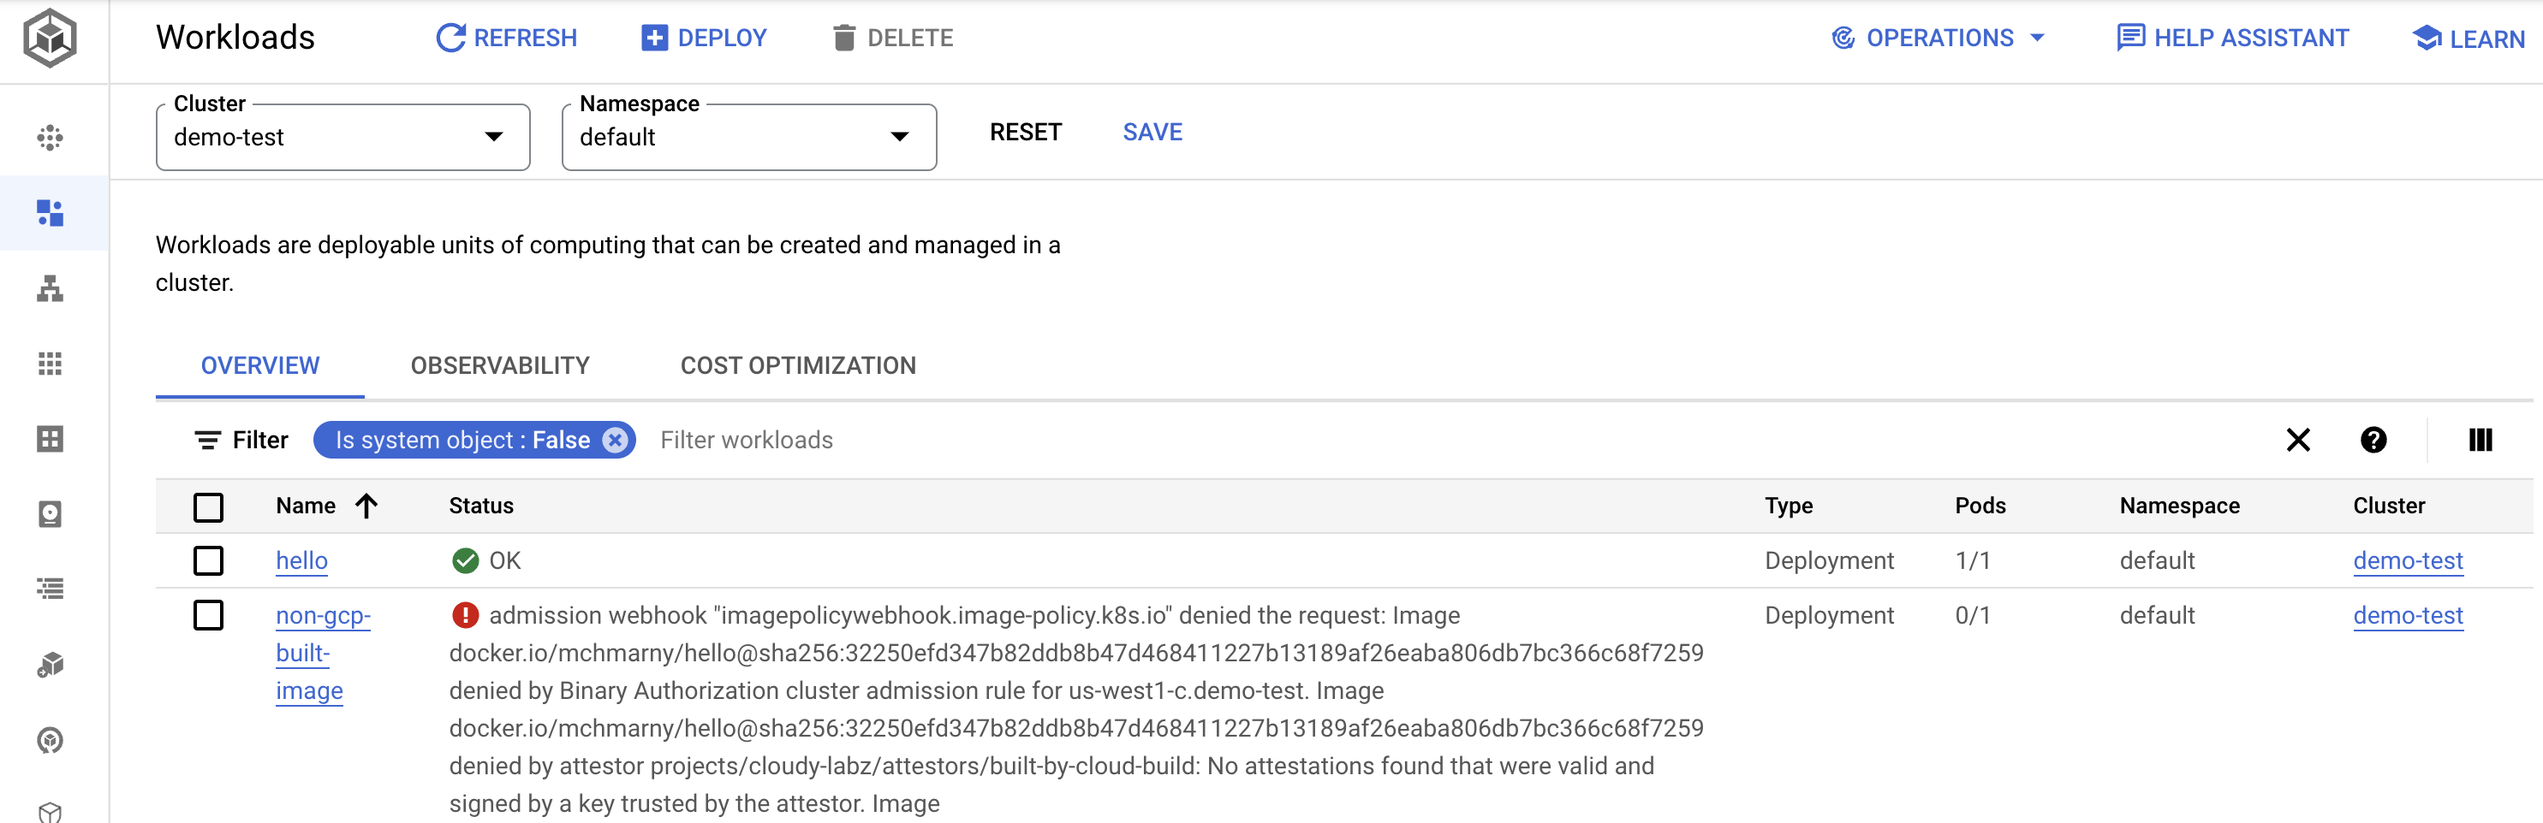
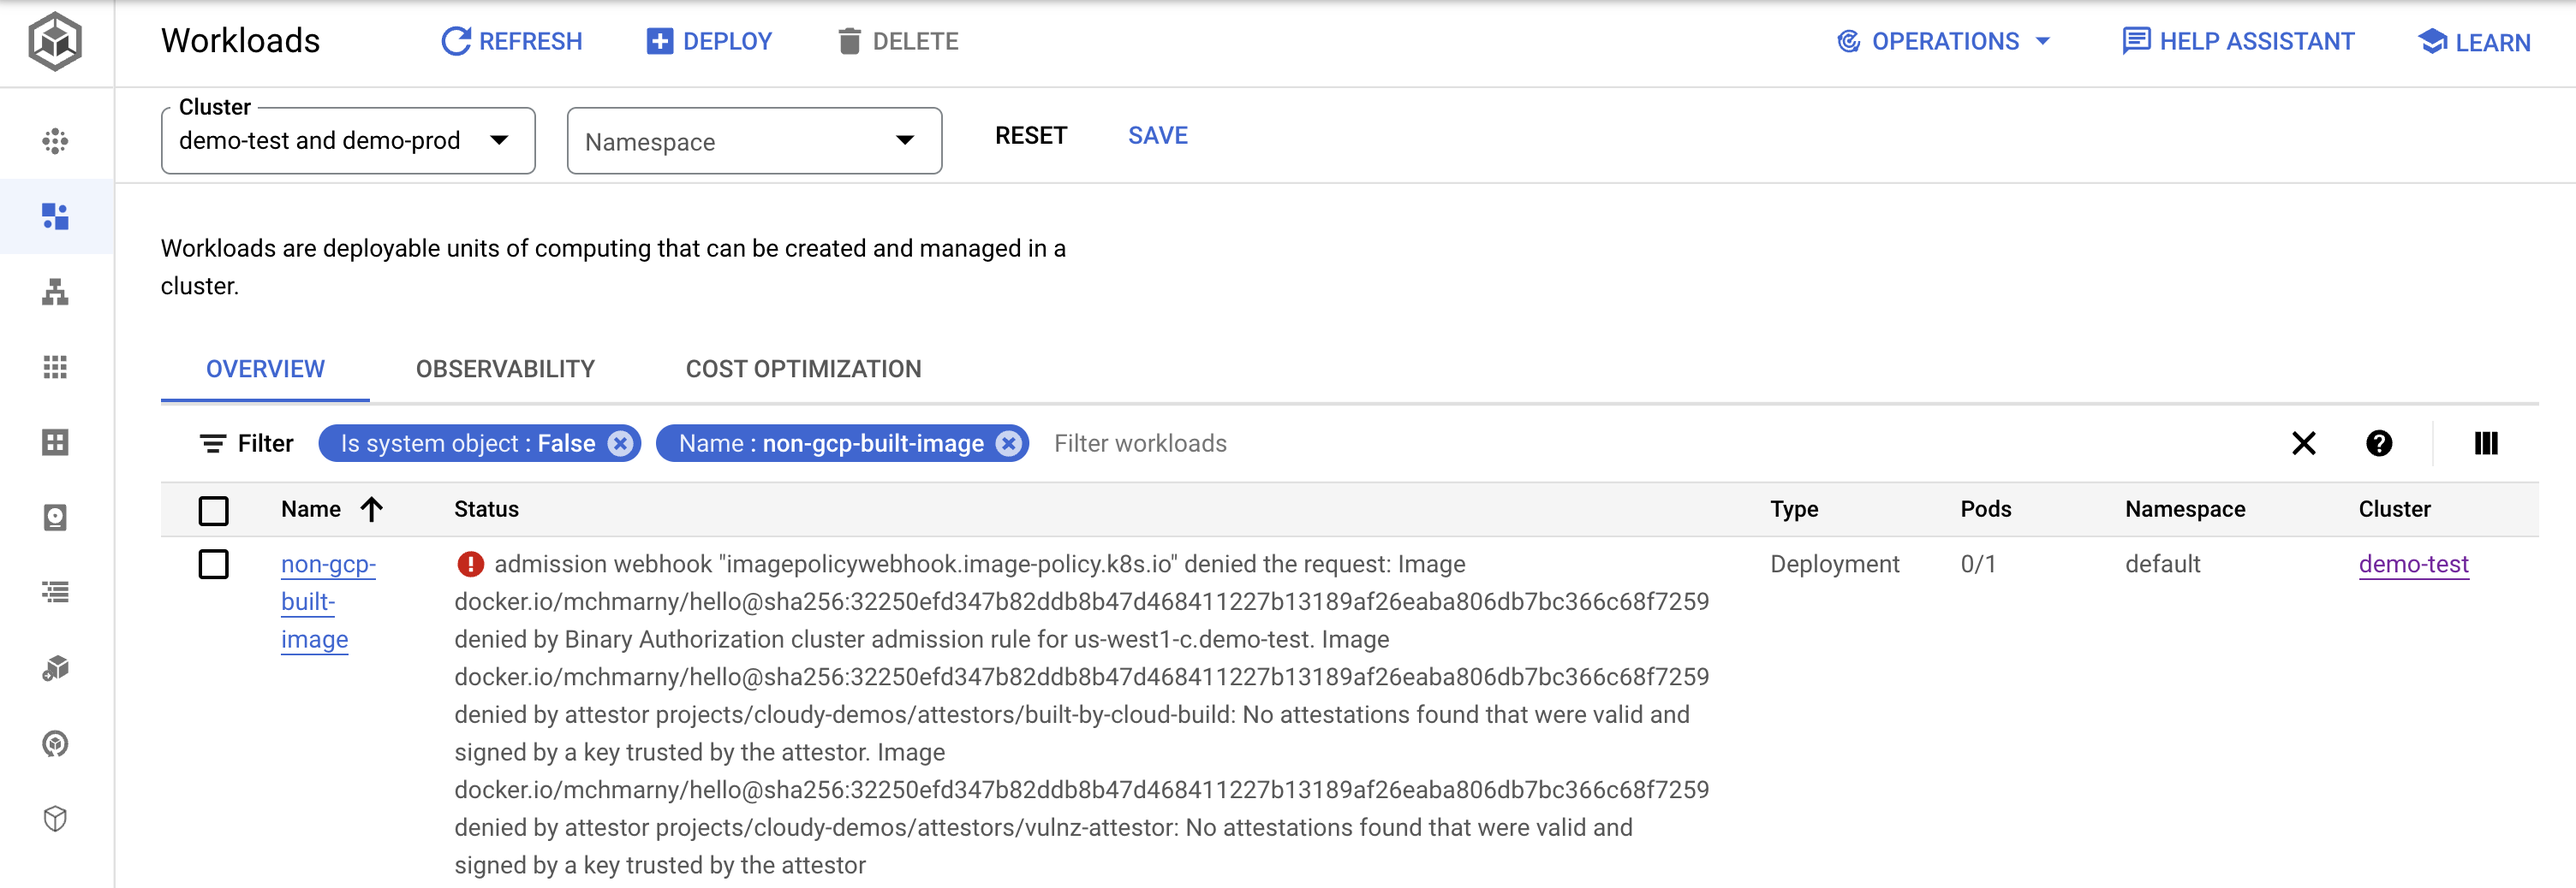
readme

diff --git a/README.md b/README.md
@@ -185,6 +185,9 @@ git push origin $VERSION_TAG
 * Navigate to GKE [workloads](https://console.cloud.google.com/kubernetes/workload/overview)
   * Drill into `hello` (note `non-gcp-built-image` erred due to lack of attestation)
   * Navigate to exposed service (`/api/ping`) and show version
+  
+![](images/gke-bad.png)
+
 * Back to Cloud Deploy [pipelines](https://console.cloud.google.com/deploy/delivery-pipelines) 
   * Show promotion and approval with manifest diffs and annotation comp (show more)
 
